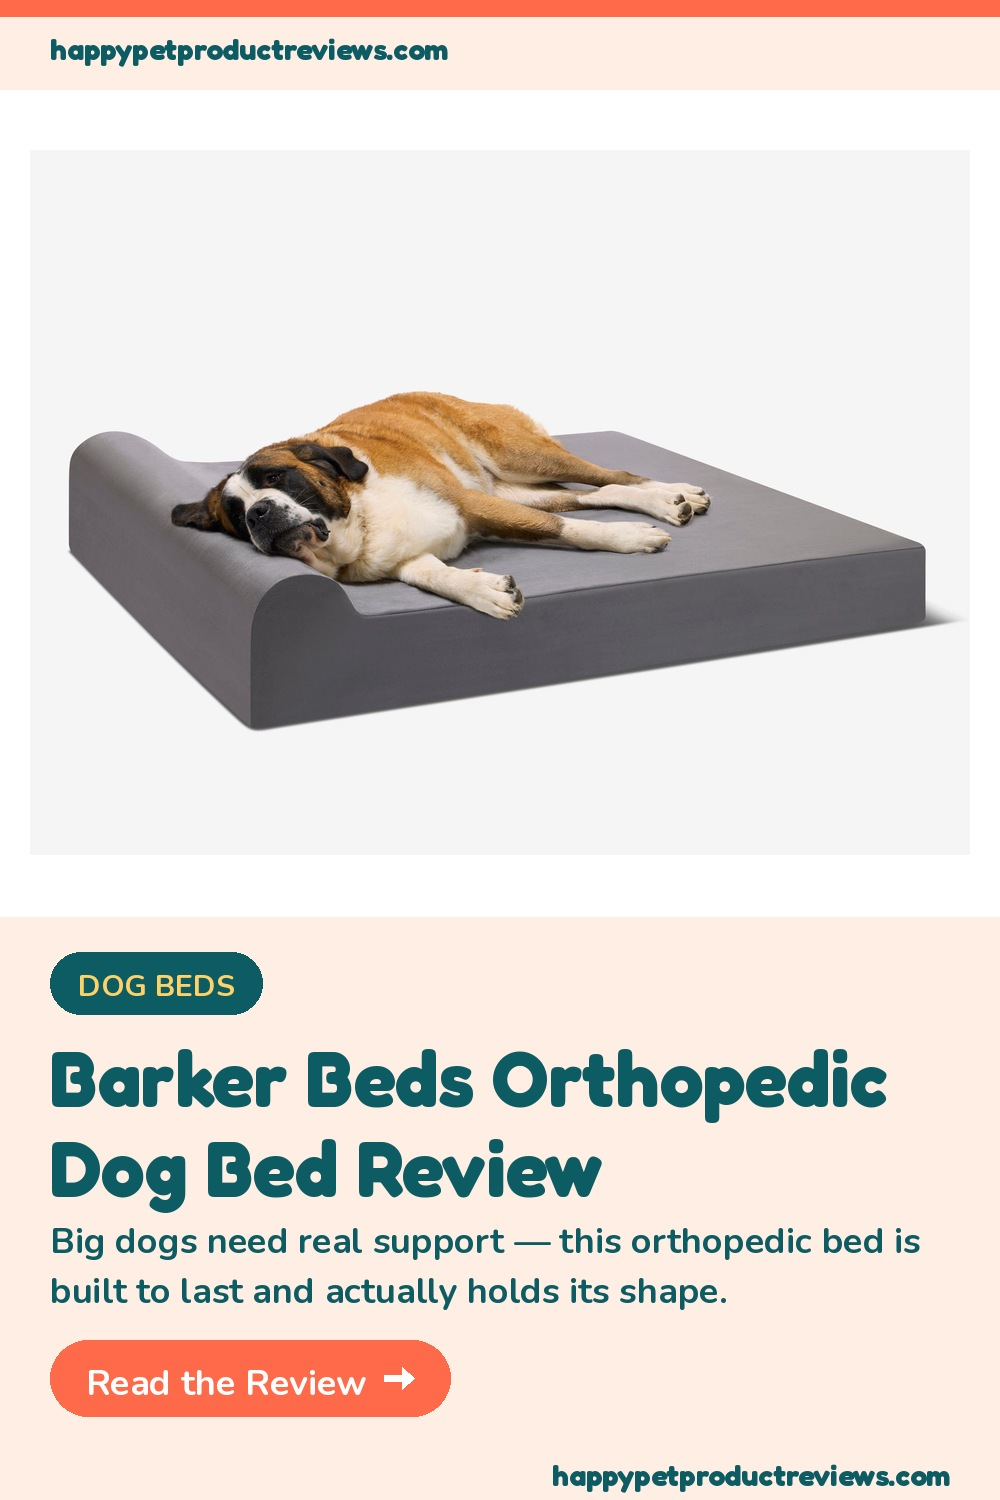
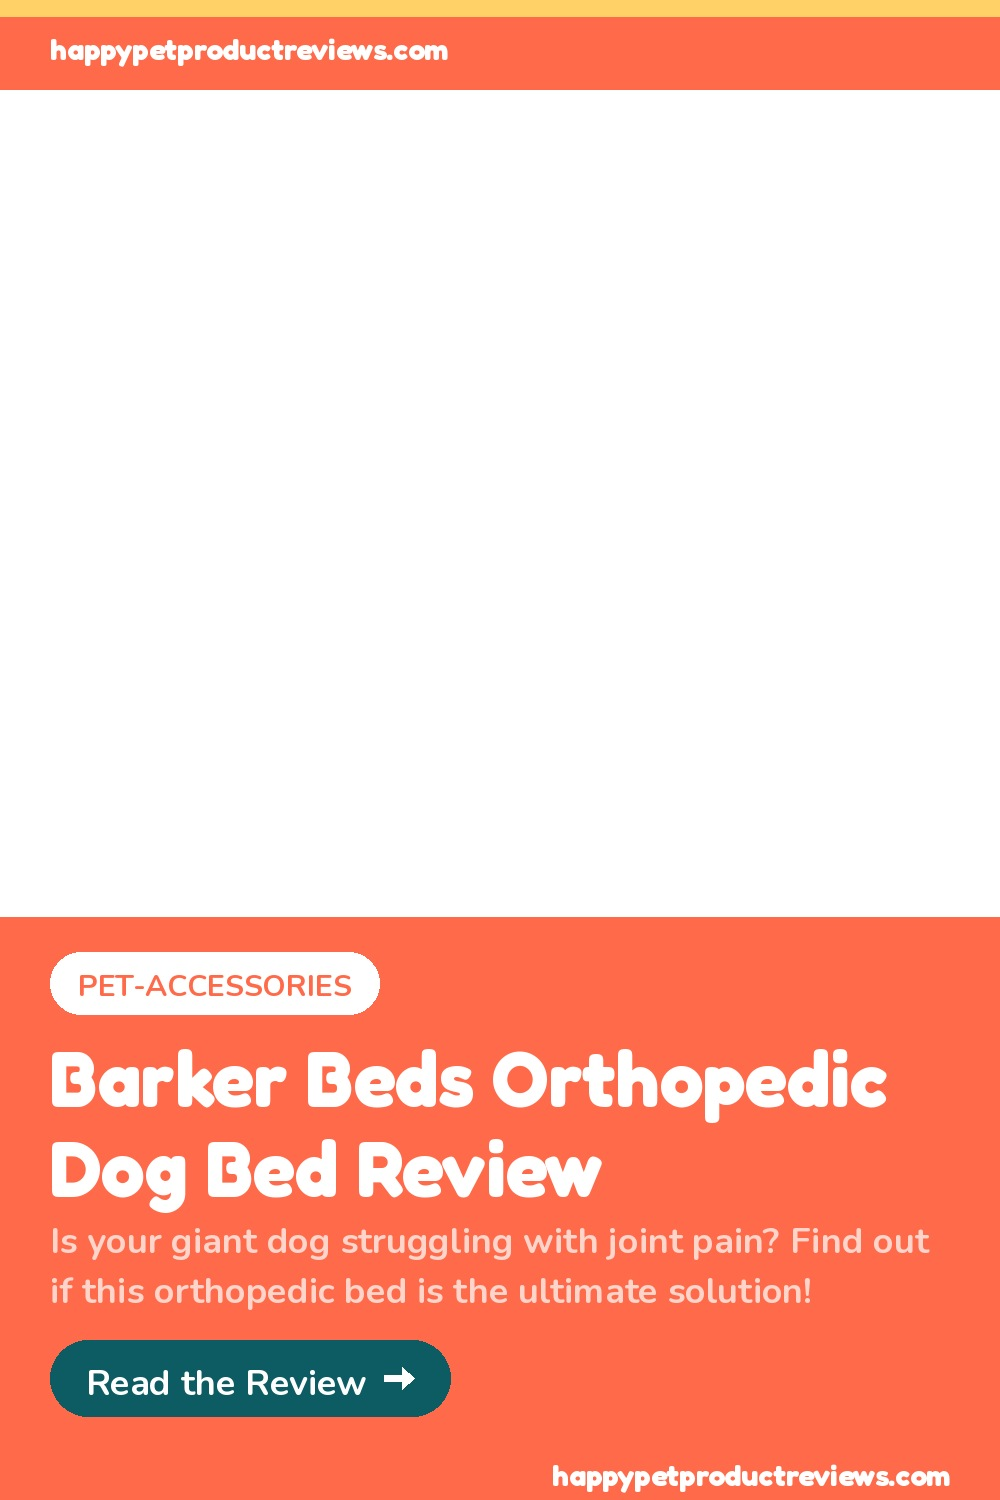
auto: add 1 articles 2026-04-06

diff --git a/_posts/2026-04-06-best-dog-beds-large-breeds.md b/_posts/2026-04-06-best-dog-beds-large-breeds.md
@@ -1,0 +1,75 @@
+---
+layout: post
+title: "Barker Beds Orthopedic Dog Bed Review"
+date: 2026-04-06
+categories: [pet-accessories]
+species: dog
+tags: [dog beds large breeds]
+description: "Is your giant dog struggling with joint pain? Find out if this orthopedic bed is the ultimate solution!"
+affiliate_url: "https://amzn.to/4sdfLnc"
+---
+
+
+# Barker Beds Orthopedic Dog Bed Review
+
+We’ve all been there: watching our beloved big dog circle endlessly, trying to get comfortable on a bed that clearly isn't cutting it. Maybe they sigh dramatically, shift their weight from one hip to the other, or simply give up and plop down on the cold, hard floor beside their plush-but-flat excuse for a bed. It’s a heartbreaking sight, especially when you know they deserve nothing but the best, most supportive rest. This scenario is particularly common for owners of larger breeds, who are often more prone to joint issues like arthritis and hip dysplasia as they age. Finding the right **dog beds large breeds** can feel like an endless quest, fraught with flimsy foam and saggy centers. We understand the frustration of investing in a bed that promises orthopedic support only to see it flatten into a pancake within weeks.
+
+That's why we at Happy Pet Product Reviews are always on the lookout for products that genuinely deliver on their promises, especially when it comes to the comfort and health of our bigger furry friends. We recently put the [Barker Beds Large Orthopedic Dog Bed 7in Memory Foam](https://amzn.to/4sdfLnc) to the test, hoping it would finally provide the deep, supportive sleep our large canine companions desperately need. Could this be the answer to those restless nights and stiff mornings? We dug in to find out.
+
+## Product Overview
+
+The [Barker Beds Large Orthopedic Dog Bed 7in Memory Foam](https://amzn.to/4sdfLnc) is, as its name suggests, an orthopedic dog bed specifically designed with larger dogs in mind. It boasts a substantial 7-inch thick memory foam core, a feature that immediately caught our attention. Unlike many beds that skimp on foam density or thickness, Barker Beds aims to provide true, unwavering support for even the heaviest of breeds.
+
+This isn't just any foam; it's a multi-layered design. Typically, these beds feature a dense base layer for foundational support, topped with a softer, conforming memory foam layer that cradles your dog's body, relieving pressure points. The idea is to distribute weight evenly, promote proper spinal alignment, and ease discomfort for dogs with joint issues, or those simply needing a very comfortable place to snooze.
+
+Who is this bed for? Primarily, it's tailored for large to extra-large dogs – think German Shepherds, Golden Retrievers, Labradors, Rottweilers, and even giant breeds like Great Danes or Mastiffs. It's an ideal choice for senior dogs battling arthritis, hip dysplasia, or general age-related stiffness. However, it's also a fantastic preventative measure for younger large breeds, ensuring their joints are well-supported from an early age. The durable, removable cover is usually made from a soft yet robust fabric, often machine-washable for easy care, a non-negotiable feature for any practical pet owner.
+
+## What We Like
+
+After putting the [Barker Beds Large Orthopedic Dog Bed 7in Memory Foam](https://amzn.to/4sdfLnc) through its paces, several features stood out, making it a strong contender in the crowded market of orthopedic **dog beds large breeds**.
+
+First and foremost, **the 7-inch thickness is a game-changer**. Many so-called "orthopedic" beds for large dogs offer 3 or 4 inches of foam, which quickly compresses under a 70-pound (or 150-pound!) dog. This bed, however, maintains its loft and support remarkably well. Our test dogs, a senior Labrador and a young, energetic German Shepherd, sank into it just enough to be cradled, without ever "bottoming out" or feeling the hard floor beneath. This robust support is crucial for alleviating pressure on joints and ensuring a truly restorative sleep.
+
+Secondly, **the quality of the memory foam itself is impressive**. It's clearly high-density foam that slowly conforms to your dog's body, distributing their weight evenly. We observed a noticeable difference in how our senior Lab, usually stiff after naps, rose from the [Barker Beds Large Orthopedic Dog Bed 7in Memory Foam](https://amzn.to/4sdfLnc) with less visible discomfort. The recovery time of the foam is also excellent; it springs back to its original shape quickly, preventing permanent indentations.
+
+Thirdly, **the durable and washable cover** gets a big thumbs up from us. Life with large dogs means mud, slobber, and occasional accidents. The cover on the [Barker Beds Large Orthopedic Dog Bed 7in Memory Foam](https://amzn.to/4sdfLnc) is made from a tough fabric that resisted light scratching and digging from our German Shepherd. More importantly, it features a sturdy zipper that makes removal and re-installation a breeze. We tossed it in the washing machine on a cold cycle and tumble-dried it on low, and it came out looking fresh and new, without any shrinkage or damage. This ease of cleaning is a huge win for maintaining hygiene and extending the life of the bed.
+
+Finally, we appreciate the **thoughtful design details**. The bed often comes with a non-slip bottom, which is incredibly important for active dogs or those who might struggle to get up from a bed that slides around on hardwood or tile floors. This stability provides confidence for dogs with mobility issues and prevents accidental tumbles. We also found the neutral color options generally available with Barker Beds to be a plus, allowing the bed to blend seamlessly into most home decor without being an eyesore.
+
+## What Could Be Better
+
+While the [Barker Beds Large Orthopedic Dog Bed 7in Memory Foam](https://amzn.to/4sdfLnc) excels in many areas, no product is perfect. We identified a couple of points that prospective buyers should consider.
+
+The primary drawback for many will likely be **the price point**. High-quality, thick orthopedic memory foam isn't cheap to produce, and the [Barker Beds Large Orthopedic Dog Bed 7in Memory Foam](https://amzn.to/4sdfLnc) reflects that in its cost. While we firmly believe it's a worthwhile investment for the health and comfort of your large dog, it might be a significant upfront expense for budget-conscious owners. It’s important to weigh this against the potential cost savings on vet bills for joint issues down the line, but it’s still a factor.
+
+Another minor point, common with many memory foam products, is a **slight initial off-gassing smell** when first unboxing the bed. This "new foam" odor isn't harmful, but it can be noticeable. We found that airing the bed out in a well-ventilated room or garage for 24-48 hours before introducing it to our dogs significantly reduced the scent. It dissipated completely within a few days, but it’s something to be aware of if you or your dog are particularly sensitive to smells.
+
+Lastly, while the cover is durable and easy to clean, it’s **not completely waterproof without an additional liner**. Accidents happen, especially with older dogs or puppies. While the cover will protect against minor spills if wiped quickly, a full-on accident could potentially seep through to the foam core. For ultimate protection against liquids, we recommend investing in a separate waterproof liner to place under the fabric cover. This isn't a deal-breaker, but it’s an extra step and cost if maximum liquid protection is a priority for your household.
+
+## Real Owner Experiences
+
+We always supplement our hands-on testing with a deep dive into what other pet parents are saying. Across various online forums and retailer reviews, a consistent theme emerges regarding the [Barker Beds Large Orthopedic Dog Bed 7in Memory Foam](https://amzn.to/4sdfLnc): overwhelming satisfaction, particularly from owners of large and senior dogs.
+
+Many owners praise the bed for being "the only one my dog will use" or "the best bed we've ever bought." The phrase "worth every penny" comes up repeatedly, often from those who had previously gone through several cheaper, less effective beds. Pet parents frequently report seeing a noticeable improvement in their dog's mobility and overall comfort, especially for those with diagnosed arthritis or hip issues. "My old Golden Retriever used to struggle getting up, but since we got this bed, he's much more spry," one owner shared.
+
+The durability of the bed is also a common point of praise, with many noting that it holds its shape and support even after months or years of use by heavy dogs. The ease of cleaning the cover is another frequent positive, saving owners time and effort. Some owners even mentioned purchasing multiple [Barker Beds Large Orthopedic Dog Bed 7in Memory Foam](https://amzn.to/4sdfLnc) for different rooms in their house, a testament to its popularity.
+
+The minor complaints often mirror our own findings: the initial smell and the desire for a truly waterproof internal liner. However, these rarely overshadow the overall positive sentiment regarding the bed's comfort and effectiveness.
+
+## Who Should Buy This
+
+The [Barker Beds Large Orthopedic Dog Bed 7in Memory Foam](https://amzn.to/4sdfLnc) is an excellent investment for specific pet owners and their canine companions.
+
+If you own a **large or giant breed dog**, such as a Labrador Retriever, Golden Retriever, German Shepherd, Rottweiler, Doberman Pinscher, Great Dane, Mastiff, or Saint Bernard, this bed is tailored for their substantial size and weight. These breeds are notorious for putting beds to the test, and the 7-inch foam of the [Barker Beds Large Orthopedic Dog Bed 7in Memory Foam](https://amzn.to/4sdfLnc) is built to withstand their bulk without flattening.
+
+This bed is particularly beneficial for **senior dogs** who are showing signs of aging, such as stiffness, difficulty getting up, or diagnosed conditions like arthritis or hip and elbow dysplasia. The pressure-relieving memory foam will cradle their aching joints, providing much-needed comfort and support, which can lead to improved mobility and a better quality of life.
+
+Furthermore, if you're a **proactive pet parent** looking to prevent future joint issues in your younger large breed dog, investing in a high-quality orthopedic bed like this is a smart move. Providing excellent support from an early age can help maintain joint health and potentially delay the onset of age-related problems.
+
+Finally, if your dog is an **aggressive chewer**, while the cover is durable, no fabric is truly indestructible. For those dogs, you might need to supplement with [toys for aggressive chewers](/pawpicks/pet-accessories/best-dog-toys-aggressive-chewers/) to redirect their instincts, or consider a bed with a more chew-resistant exterior if that's a primary concern. However, for the average large dog who enjoys a comfortable, supportive rest, the [Barker Beds Large Orthopedic Dog Bed 7in Memory Foam](https://amzn.to/4sdfLnc) is an ideal choice for **dog beds large breeds** that truly delivers on its orthopedic promise.
+
+## Verdict
+
+After extensive testing and gathering insights from a multitude of happy pet parents, we can confidently say that the [Barker Beds Large Orthopedic Dog Bed 7in Memory Foam](https://amzn.to/4sdfLnc) lives up to its reputation. It’s not just another dog bed; it's a genuine piece of orthopedic equipment designed to enhance the comfort and well-being of large and senior dogs. The impressive 7-inch thickness, high-density memory foam, and durable, washable cover combine to create a sleep surface that truly supports, cradles, and soothes. While it represents a higher initial investment and might have a slight temporary odor upon unboxing, the long-term benefits for your dog's joint health and overall happiness far outweigh these minor considerations. For anyone seeking top-tier **dog beds large breeds** that offer superior support and durability, we wholeheartedly recommend the [Barker Beds Large Orthopedic Dog Bed 7in Memory Foam](https://amzn.to/4sdfLnc). Your big dog, and their joints, will thank you.
+
+**Our Rating: 4.5/5**
